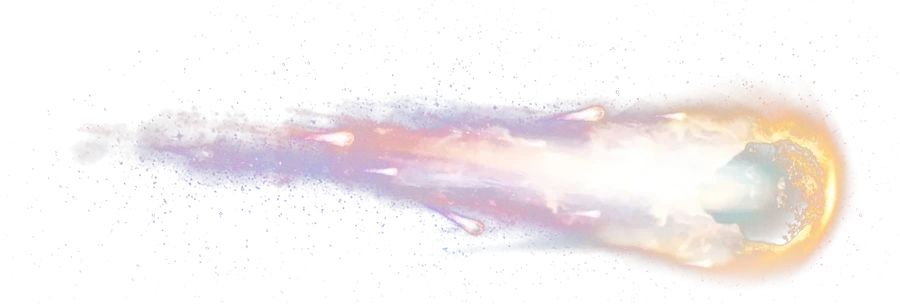
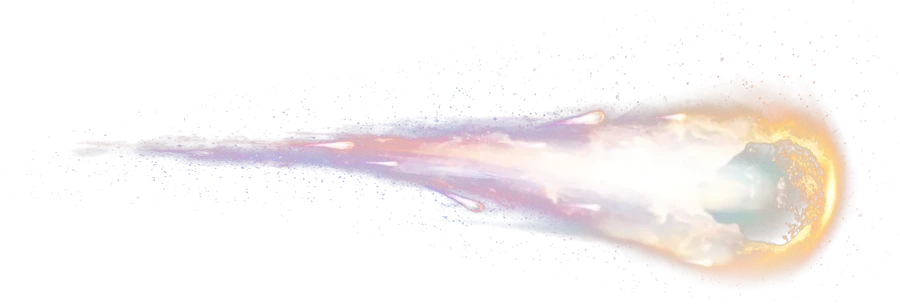
CTA meteors: hybrid of photo head and neon streak tail
Claude-Session: https://claude.ai/code/session_01C8A69Hw64jMPueMaVpmY97

Changed region(s): [[0.1244, 0.3257, 0.7467, 0.8586], [0.0933, 0.4145, 0.1244, 0.4441]]

diff --git a/app/globals.css b/app/globals.css
@@ -336,11 +336,14 @@ h4 {
 }
 .meteor-cta::before {
   content: "";
-  height: 30px;
-  width: 92px;
+  height: 22px;
+  width: 96px;
   flex: none;
-  background: url("/brand/fx-cta-meteor.webp") right center / auto 100% no-repeat;
-  filter: drop-shadow(0 0 10px rgb(255 165 80 / 0.55));
+  background:
+    url("/brand/fx-cta-meteor.webp") right center / auto 100% no-repeat,
+    linear-gradient(90deg, transparent, rgb(167 139 250 / 0.85)) left center /
+      calc(100% - 42px) 2px no-repeat;
+  filter: drop-shadow(0 0 9px rgb(213 152 132 / 0.6));
   transform-origin: right center;
   transition:
     transform 0.35s ease,
